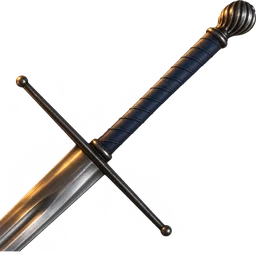
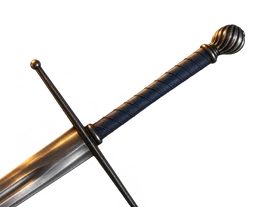
Give the swords on the type cards room above and to the right
Each type card's sword is drawn a little smaller and flatter, with air
above and to the right of the pommel, while its blade still runs out
through the card's bottom-left corner, so more of the sword shows.

Changed region(s): [[0.0, 0.0, 1.0, 1.0]]

diff --git a/src/components/forge/forge.css b/src/components/forge/forge.css
@@ -192,8 +192,9 @@
 /* Type cards: square glass with the sword on a diagonal (pommel, grip, guard and the top of the blade),
    the name on a brass plate that forms the card's base. */
 .forge .tcard { box-sizing: border-box; width: 92px; height: 92px; padding: 0; border-radius: 6px; display: flex; flex-direction: column; align-items: center; justify-content: flex-end; transition: transform 150ms var(--ease-out); }
-/* The sword fills the card above the plate, edge to edge, cropped by the card's own corners. */
-.forge .tcard img { position: absolute; left: 1px; right: 1px; top: 1px; bottom: 22px; width: calc(100% - 2px); height: calc(100% - 23px); object-fit: cover; object-position: right top; border-radius: 5px 5px 0 0; filter: drop-shadow(0 2px 4px rgba(0, 0, 0, .5)); }
+/* The picture is made to the box above the plate (90×69): air above and right of the pommel, the blade
+   running out through the bottom-left corner. */
+.forge .tcard img { position: absolute; left: 1px; right: 1px; top: 1px; bottom: 22px; width: calc(100% - 2px); height: calc(100% - 23px); object-fit: fill; border-radius: 5px 5px 0 0; filter: drop-shadow(0 2px 4px rgba(0, 0, 0, .5)); }
 /* The plate runs flush to the card's edges, over its border, as the card's base. */
 .forge .tcard .plate { position: relative; width: calc(100% + 2px); flex: none; margin: 0 -1px -1px; padding: 5px 4px 4px; border-radius: 0 0 6px 6px; text-align: center; white-space: nowrap; font: var(--type-label-sm); letter-spacing: .03em; text-transform: uppercase; color: #1a1007;
   background: linear-gradient(180deg, #d6ba79, #b8954f 60%, #9c7a3c); box-shadow: inset 0 1px 0 rgba(255, 240, 200, .45), 0 -1px 0 rgba(0, 0, 0, .35); transition: background 200ms; }
